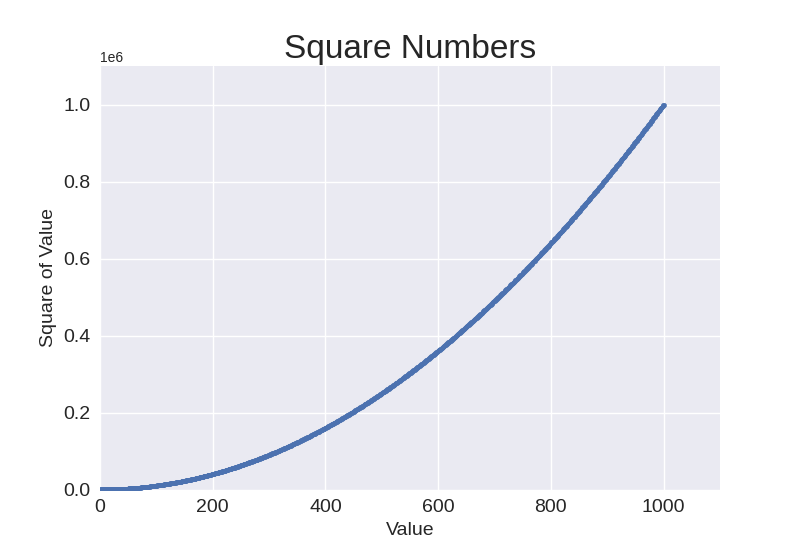
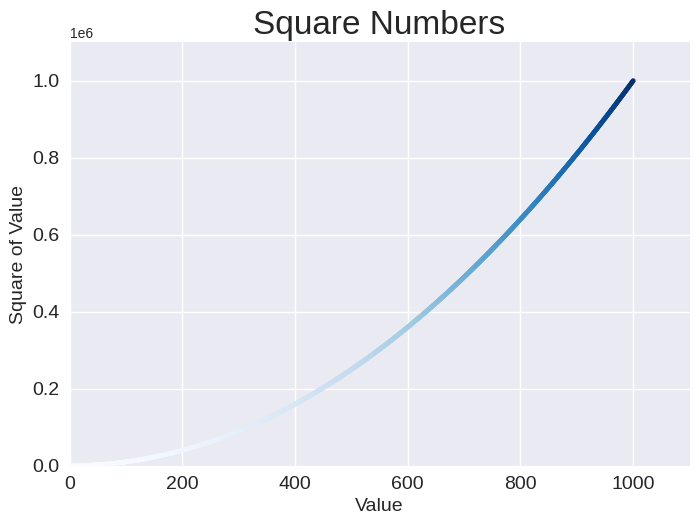
Using a Colormap.

diff --git a/data_visualization/scatter_squares.py b/data_visualization/scatter_squares.py
@@ -6,7 +6,7 @@ y_values = [x**2 for x in x_values]
 
 plt.style.use("seaborn")
 fig, ax = plt.subplots()
-ax.scatter(x_values, y_values, s=10)
+ax.scatter(x_values, y_values, c=y_values, cmap=plt.cm.Blues, s=10)
 
 # Set chart title and label axes.
 ax.set_title("Square Numbers", fontsize=24)
@@ -19,4 +19,4 @@ ax.tick_params(axis="both", which="major", labelsize=14)
 # Set the range for each axis.
 ax.axis([0, 1100, 0, 1100000])
 
-plt.savefig("mygraph.png")
+plt.savefig("mygraph.png", bbox_inches="tight")
